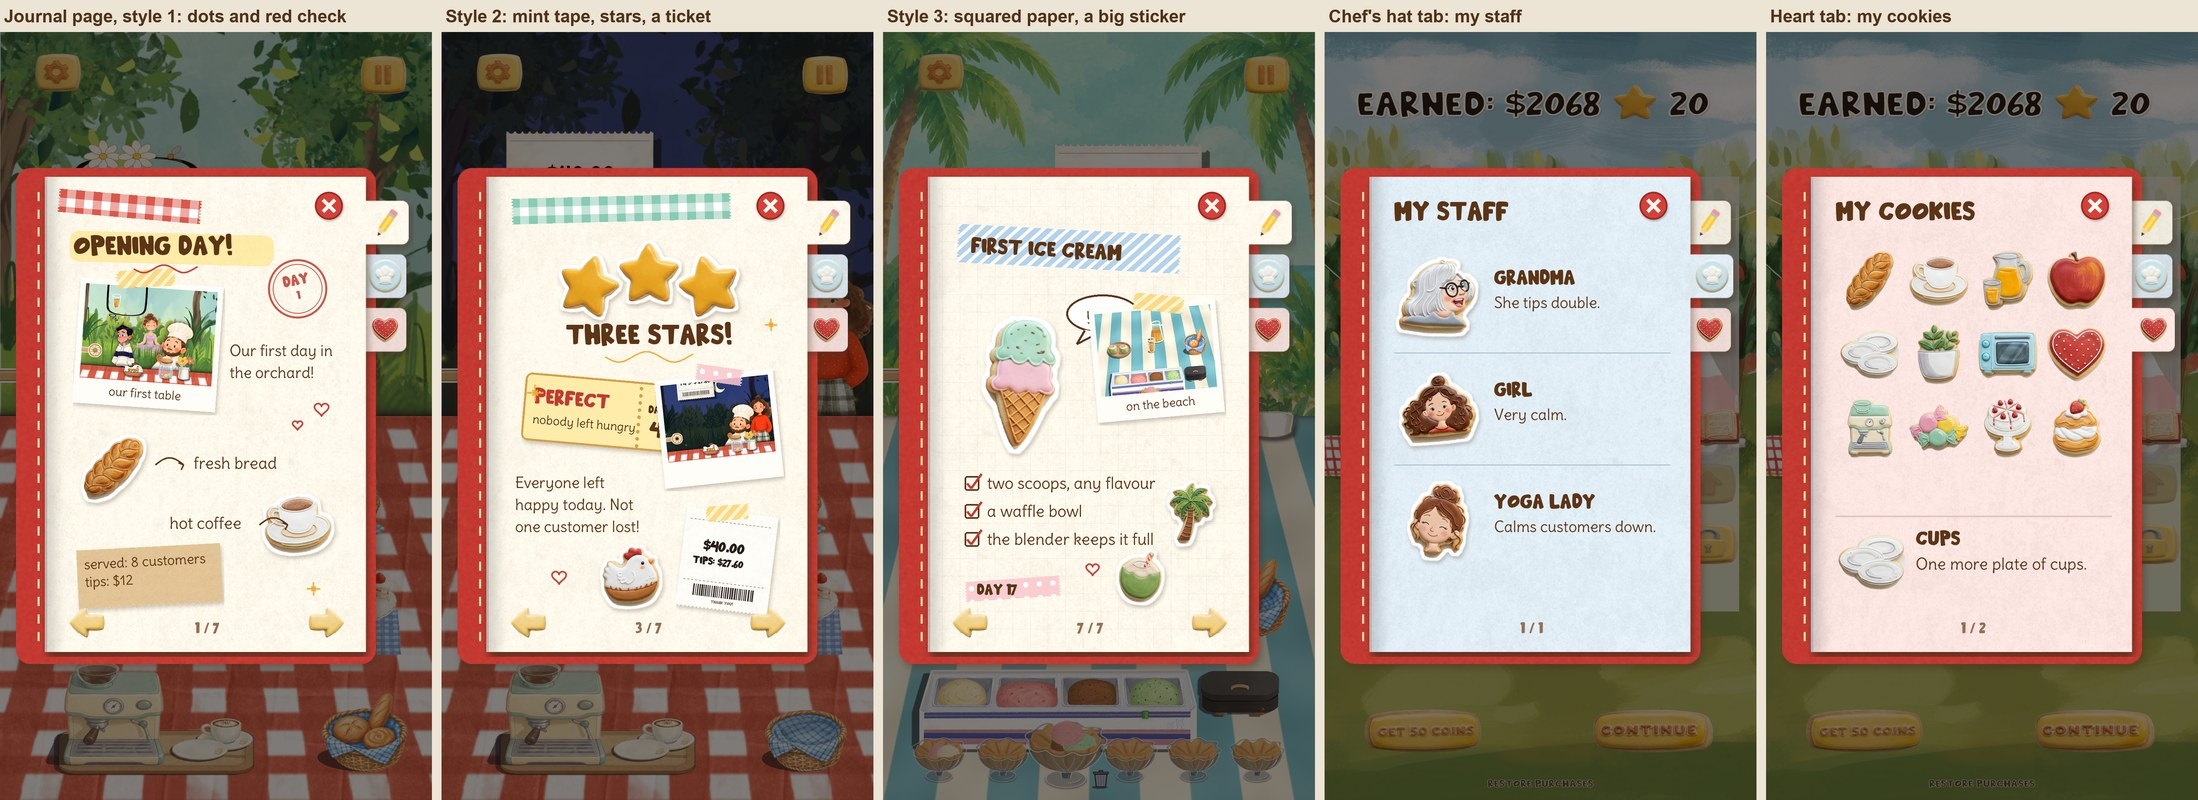
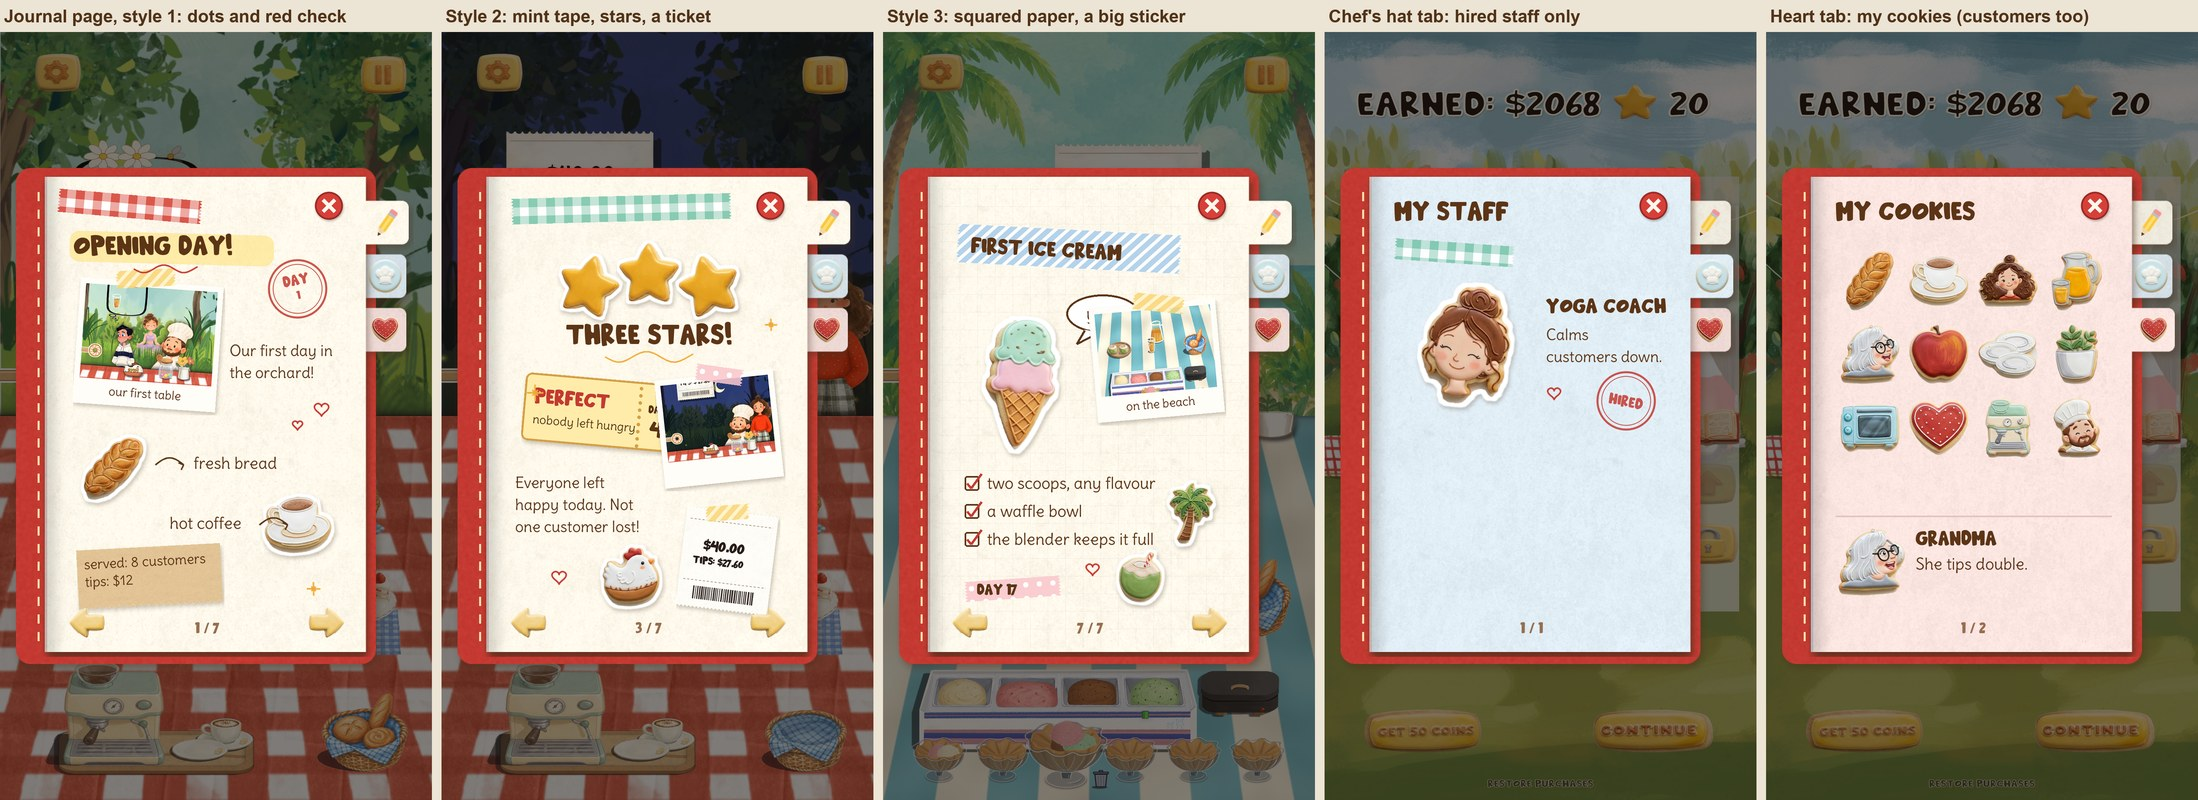
Report: journal staff tab shows hired staff only

diff --git a/Docs/tools/report_page/index.html b/Docs/tools/report_page/index.html
@@ -86,11 +86,12 @@ h3 small{font-weight:600;color:var(--soft);font-size:13px;margin-left:6px}
 
 <h2 id="qa"><span class="n">2</span>Q&amp;A</h2>
 <div class="q"><h3>The journal: second design</h3>
-<figure><img src="journal_design.jpg" alt="Five phone mock-ups of the red book with three square index tabs on the right, each cut from its own page's paper: a cream one with a pencil, a pale blue one with the kitchen handle's chef's hat, a pale pink one with a heart. Journal page style 1: dotted paper, a strip of red checked tape, the title Opening day on a yellow highlight, a small taped photo with a caption, a round DAY 1 stamp, a bread sticker and a coffee sticker with handwritten labels and arrows, a brown note with the day's numbers. Style 2: a mint checked tape across the top, three star stickers, a yellow PERFECT ticket, a small photo, a taped receipt, a hen sticker. Style 3: squared paper, the title First ice cream written on blue striped tape, one big ice cream sticker with a yum speech bubble, a small photo, a ticked list, palm and coconut stickers. Then My staff on pale blue paper and My cookies on pale pink paper"><figcaption>Mock-ups, not in the game. Three journal pages, each in its own style; then the staff and the cookies sections.</figcaption></figure>
+<figure><img src="journal_design.jpg" alt="Five phone mock-ups of the red book with three square index tabs on the right, each cut from its own page's paper: a cream one with a pencil, a pale blue one with the kitchen handle's chef's hat, a pale pink one with a heart. Journal page style 1: dotted paper, a strip of red checked tape, the title Opening day on a yellow highlight, a small taped photo with a caption, a round DAY 1 stamp, a bread sticker and a coffee sticker with handwritten labels and arrows, a brown note with the day's numbers. Style 2: a mint checked tape across the top, three star stickers, a yellow PERFECT ticket, a small photo, a taped receipt, a hen sticker. Style 3: squared paper, the title First ice cream written on blue striped tape, one big ice cream sticker with a yum speech bubble, a small photo, a ticked list, palm and coconut stickers. Then My staff on pale blue paper with only the hired yoga coach and a HIRED stamp, and My cookies on pale pink paper with the bought things and customers"><figcaption>Mock-ups, not in the game. Three journal pages, each in its own style; then the staff and the cookies sections.</figcaption></figure>
 <ul>
 <li><b>Tabs:</b> square, cut from the page's own paper and sticking out of it, one per section. The pencil's is the journal's cream paper; the staff tab has the kitchen handle's chef's hat; staff pages are pale blue paper, cookie pages pale pink.</li>
 <li><b>Journal pages:</b> like a hand-made journal: strips of patterned tape, cookies as stickers with a white edge, a small taped photo with a caption, handwritten notes with little arrows, a stamp, a ticket, a note with that day's numbers, doodles.</li>
 <li><b>Each page its own style:</b> dotted paper with red check; plain paper with mint tape and stars; squared paper with one big sticker. A handful of such layouts would rotate over the milestones.</li>
+<li><b>Staff tab:</b> only staff you hired. Today the game has one hire, the yoga coach, so the page shows her alone; the customers you buy (Grandma, the Girl, the Chef) stay with the cookies.</li>
 <li>The pencil is still a stand-in drawing.</li>
 </ul>
 <ul class="checks">
@@ -105,7 +106,7 @@ h3 small{font-weight:600;color:var(--soft);font-size:13px;margin-left:6px}
 <li><label><input type="checkbox" data-id="qa.jm.star3"> First three stars (PERFECT stamp)</label></li>
 <li><label><input type="checkbox" data-id="qa.jm.food"> New on the menu: one page per food bought (apple, juice, cake, choux, cookies, coconut, ice cream)</label></li>
 <li><label><input type="checkbox" data-id="qa.jm.first"> First time made: first cake baked, first coffee, first ice cream</label></li>
-<li><label><input type="checkbox" data-id="qa.jm.people"> A new face: each staff member who joins</label></li>
+<li><label><input type="checkbox" data-id="qa.jm.people"> A new face: a new customer bought, or a staff member hired</label></li>
 <li><label><input type="checkbox" data-id="qa.jm.kitchen"> Kitchen: second oven, third oven, better coffee machine, first time you rearranged it</label></li>
 <li><label><input type="checkbox" data-id="qa.jm.decor"> Decor: the flower pots</label></li>
 <li><label><input type="checkbox" data-id="qa.jm.count"> Counts: 100, 500, 1000 customers served</label></li>
